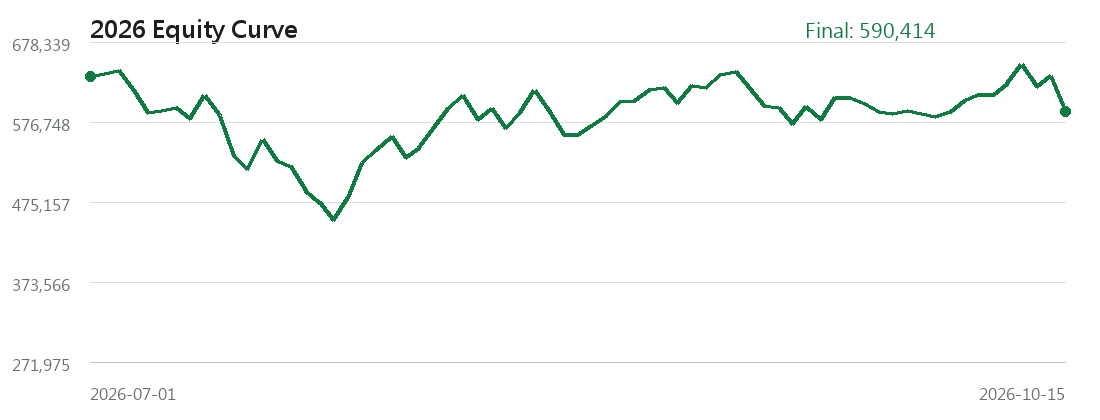
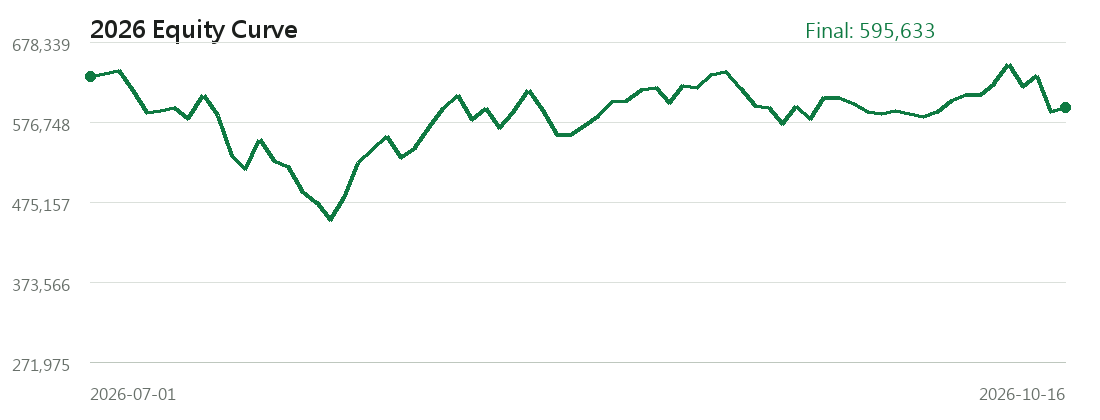
Update dashboard data

diff --git a/data.js b/data.js
@@ -1,5 +1,5 @@
 window.PUBLIC_FOLLOW_DATA = {
-  "generated_at": "2026-10-16T10:22:12.882422+08:00",
+  "generated_at": "2026-10-16T18:34:01.746461+08:00",
   "public_note": "Static follow dashboard only. Backend code, database, cache, and parameter search files are local-only.",
   "assumptions": {
     "initial_capital": 300000.0,
@@ -8,20 +8,20 @@ window.PUBLIC_FOLLOW_DATA = {
     "position_sizing": "Capital is split across up to 5 positions with integer-share sizing."
   },
   "data_status": {
-    "signal_date": "2026-10-15",
-    "latest_chip_date": "2026-10-15",
-    "latest_price_date": "2026-10-15",
+    "signal_date": "2026-10-16",
+    "latest_chip_date": "2026-10-16",
+    "latest_price_date": "2026-10-16",
     "candidate_count": 2,
     "warning": null
   },
   "metrics": {
     "initial_capital": 300000.0,
-    "final_value": 590413.6424613954,
+    "final_value": 595632.6424613954,
     "cash": 10119.642461395299,
-    "total_return_pct": 96.80454748713179,
-    "annualized_return_pct": 148.0671169177265,
+    "total_return_pct": 98.54421415379846,
+    "annualized_return_pct": 150.16931132789736,
     "start_date": "2026-01-16",
-    "end_date": "2026-10-15",
+    "end_date": "2026-10-16",
     "closed_trade_count": 79,
     "entry_count": 80,
     "open_position_count": 5,
@@ -444,6 +444,12 @@ window.PUBLIC_FOLLOW_DATA = {
       "equity": 590413.6424613954,
       "cash": 10119.642461395299,
       "position_count": 5
+    },
+    {
+      "date": "2026-10-16",
+      "equity": 595632.6424613954,
+      "cash": 10119.642461395299,
+      "position_count": 5
     }
   ],
   "holdings": [
@@ -453,11 +459,11 @@ window.PUBLIC_FOLLOW_DATA = {
       "quantity": 37,
       "entry_date": "2026-10-12",
       "entry_price": 3285.0,
-      "current_price_date": "2026-10-15",
-      "current_price": 2905.0,
-      "market_value": 107485.0,
-      "unrealized_return_pct": -11.56773211567732,
-      "holding_days": 3,
+      "current_price_date": "2026-10-16",
+      "current_price": 3120.0,
+      "market_value": 115440.0,
+      "unrealized_return_pct": -5.022831050228316,
+      "holding_days": 4,
       "concept_tag_names": [
         "AOI/檢測設備",
         "CoWoS/先進封裝",
@@ -478,11 +484,11 @@ window.PUBLIC_FOLLOW_DATA = {
       "quantity": 470,
       "entry_date": "2026-10-14",
       "entry_price": 260.0,
-      "current_price_date": "2026-10-15",
-      "current_price": 257.0,
-      "market_value": 120790.0,
-      "unrealized_return_pct": -1.1538461538461497,
-      "holding_days": 1,
+      "current_price_date": "2026-10-16",
+      "current_price": 265.5,
+      "market_value": 124785.0,
+      "unrealized_return_pct": 2.115384615384608,
+      "holding_days": 2,
       "concept_tag_names": [
         "貨櫃航運",
         "證券券商",
@@ -496,11 +502,11 @@ window.PUBLIC_FOLLOW_DATA = {
       "quantity": 438,
       "entry_date": "2026-10-14",
       "entry_price": 282.0,
-      "current_price_date": "2026-10-15",
-      "current_price": 274.0,
-      "market_value": 120012.0,
-      "unrealized_return_pct": -2.8368794326241176,
-      "holding_days": 1,
+      "current_price_date": "2026-10-16",
+      "current_price": 280.5,
+      "market_value": 122859.0,
+      "unrealized_return_pct": -0.5319148936170248,
+      "holding_days": 2,
       "concept_tag_names": [
         "證券券商",
         "投資控股",
@@ -517,11 +523,11 @@ window.PUBLIC_FOLLOW_DATA = {
       "quantity": 216,
       "entry_date": "2026-10-15",
       "entry_price": 560.0,
-      "current_price_date": "2026-10-15",
-      "current_price": 542.0,
-      "market_value": 117072.0,
-      "unrealized_return_pct": -3.214285714285714,
-      "holding_days": 0,
+      "current_price_date": "2026-10-16",
+      "current_price": 520.0,
+      "market_value": 112320.0,
+      "unrealized_return_pct": -7.14285714285714,
+      "holding_days": 1,
       "concept_tag_names": [
         "光通訊模組",
         "矽光子/CPO",
@@ -539,11 +545,11 @@ window.PUBLIC_FOLLOW_DATA = {
       "quantity": 254,
       "entry_date": "2026-10-15",
       "entry_price": 482.5,
-      "current_price_date": "2026-10-15",
-      "current_price": 452.5,
-      "market_value": 114935.0,
-      "unrealized_return_pct": -6.217616580310881,
-      "holding_days": 0,
+      "current_price_date": "2026-10-16",
+      "current_price": 433.5,
+      "market_value": 110109.0,
+      "unrealized_return_pct": -10.155440414507776,
+      "holding_days": 1,
       "concept_tag_names": [
         "封測",
         "證券券商",
@@ -569,42 +575,43 @@ window.PUBLIC_FOLLOW_DATA = {
   "today_candidates": [
     {
       "rank": 1,
-      "signal_date": "2026-10-15",
-      "stock_id": "2351",
-      "company_name": "順德",
+      "signal_date": "2026-10-16",
+      "stock_id": "6805",
+      "company_name": "富世達",
       "action": "WATCH_WEAKER_THAN_CURRENT_HOLDING",
-      "reference_price": 205.0,
-      "target_amount": 118082.72849227907,
-      "suggested_quantity": 576,
-      "buy_amount": 118080.0,
+      "reference_price": 2250.0,
+      "target_amount": 119126.52849227907,
+      "suggested_quantity": 52,
+      "buy_amount": 117000.0,
       "concept_tag_names": [
-        "導線架/封裝材料",
         "證券券商",
+        "AI伺服器",
+        "ASIC設計服務",
+        "半導體IP/設計服務",
+        "工具機零組件",
         "投資控股",
-        "精密沖壓/金屬件",
-        "半導體IP/設計服務"
+        "晶圓製程設備零組件",
+        "系統整合/資服",
+        "基礎產業:電子零組件業"
       ],
       "action_text": "觀察"
     },
     {
       "rank": 2,
-      "signal_date": "2026-10-15",
-      "stock_id": "6693",
-      "company_name": "廣閎科",
+      "signal_date": "2026-10-16",
+      "stock_id": "2455",
+      "company_name": "全新",
       "action": "WATCH_WEAKER_THAN_CURRENT_HOLDING",
-      "reference_price": 180.0,
-      "target_amount": 118082.72849227907,
-      "suggested_quantity": 656,
-      "buy_amount": 118080.0,
+      "reference_price": 493.0,
+      "target_amount": 119126.52849227907,
+      "suggested_quantity": 241,
+      "buy_amount": 118813.0,
       "concept_tag_names": [
+        "RF前端/功率放大器",
         "證券券商",
-        "驅動IC/觸控IC",
-        "功率元件",
+        "塑膠原料/樹脂",
         "投資控股",
-        "遊戲/數位內容",
-        "電動車動力/電控",
-        "半導體IP/設計服務",
-        "基礎產業:半導體業"
+        "網安/網路設備"
       ],
       "action_text": "觀察"
     }
